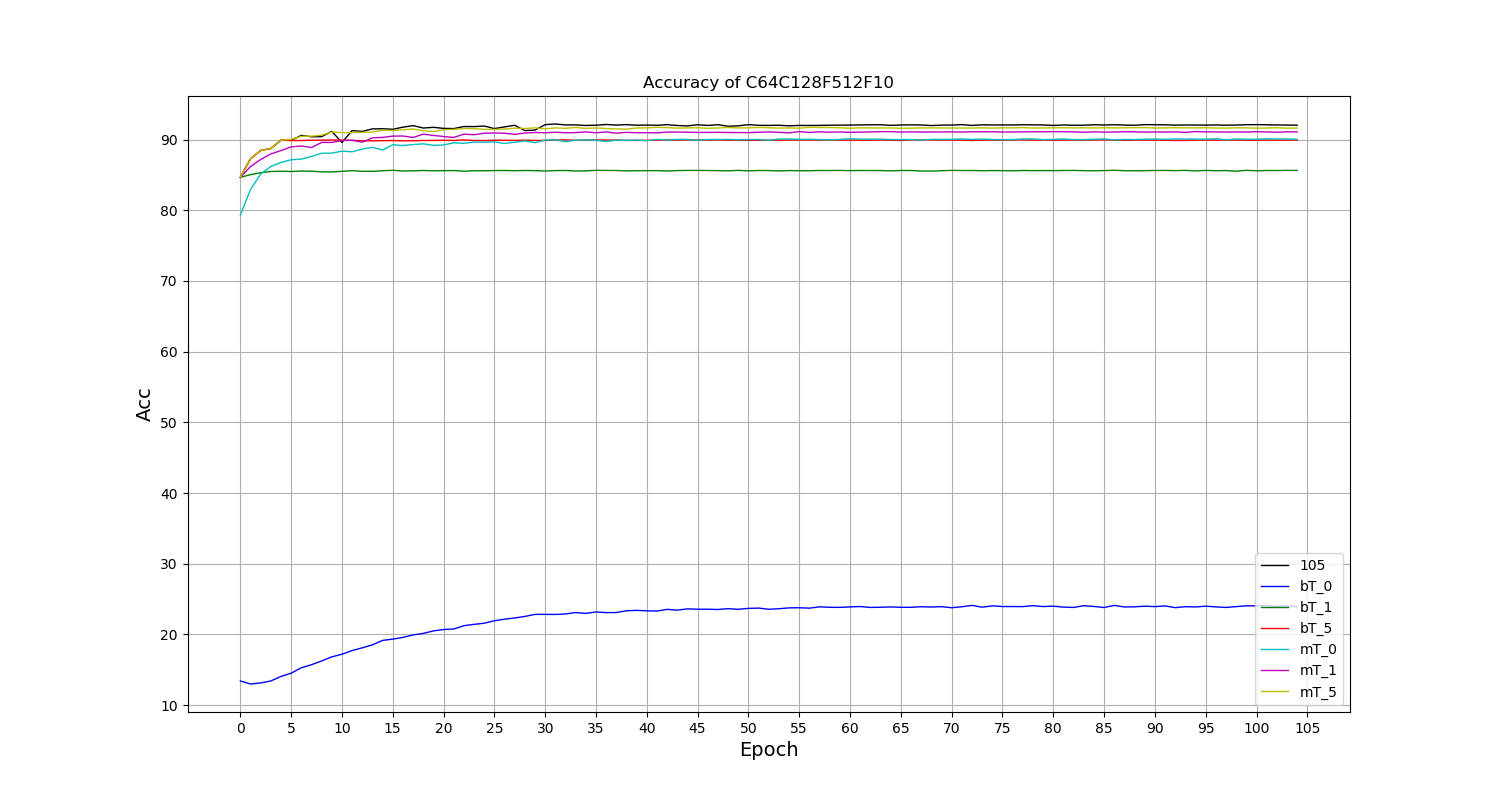
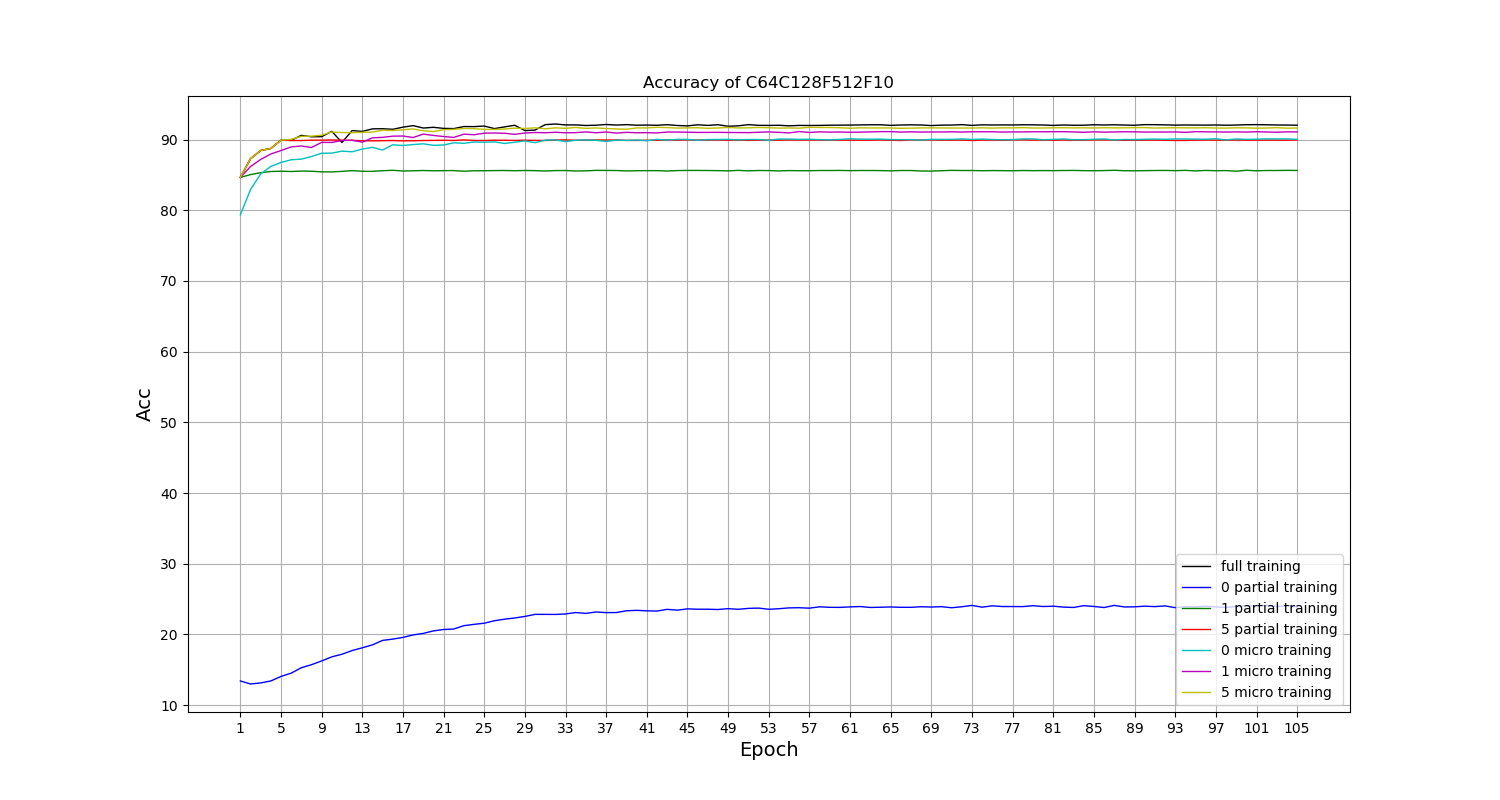
update plot

diff --git a/Performance_Estimation/FasionMNIST_microTrain/DCDF/plot_at_bt_mt.py b/Performance_Estimation/FasionMNIST_microTrain/DCDF/plot_at_bt_mt.py
@@ -53,16 +53,24 @@ def Acc_Plot(indicator,loc,micro_epochs,color):
     # test1,train1 = load_data("./Result_npz/"+kernel_num+"/"+indicator+str(micro_epochs)+".npz")
     test1,train1 = load_data("./Result_npz/"+Net_Name+"/Acc_"+str(micro_epochs)+".npz")
     size = np.size(test1)
-    plt_x = np.arange(size)
+    plt_x = np.arange(1,size+1)
     test_y = test1
     max_index=np.argmax(test_y) # find the max point of test sets
 
-    if micro_epochs=="144":
-        label = ("all_train")
-    # elif micro_epochs=="-1":
-    #     label ="00mT"
-    else:
-        label = str(micro_epochs)
+    if micro_epochs=="105":
+        label = ("full training")
+    if micro_epochs=="bT_0":
+        label = ("0 partial training")
+    if micro_epochs=="bT_1":
+        label = ("1 partial training")
+    if micro_epochs=="bT_5":
+        label = ("5 partial training")
+    if micro_epochs=="mT_0":
+        label = ("0 micro training")
+    if micro_epochs=="mT_1":
+        label = ("1 micro training")     
+    if micro_epochs=="mT_5":
+        label = ("5 micro training")
 
     # show_max='['+str(max_index)+',%.3f]' %(100.0 * test_y[max_index])
     # plt.annotate(show_max,xytext=(max_index,test_y[max_index]),xy=(max_index,test_y[max_index]),fontsize=10, color=color)
@@ -72,7 +80,7 @@ def Acc_Plot(indicator,loc,micro_epochs,color):
     print(label_info)
     
     plt.plot(plt_x, test_y, label=label, color=color, linewidth=1,linestyle="-")
-    ticks=np.arange(min(plt_x),max(plt_x)+2, 5)
+    ticks=np.arange(min(plt_x),max(plt_x)+2, 4)
     plt.xticks(ticks)
     plt.grid(True)
     # plt.plot(max_index,test_y[max_index], color=color, marker='o')
